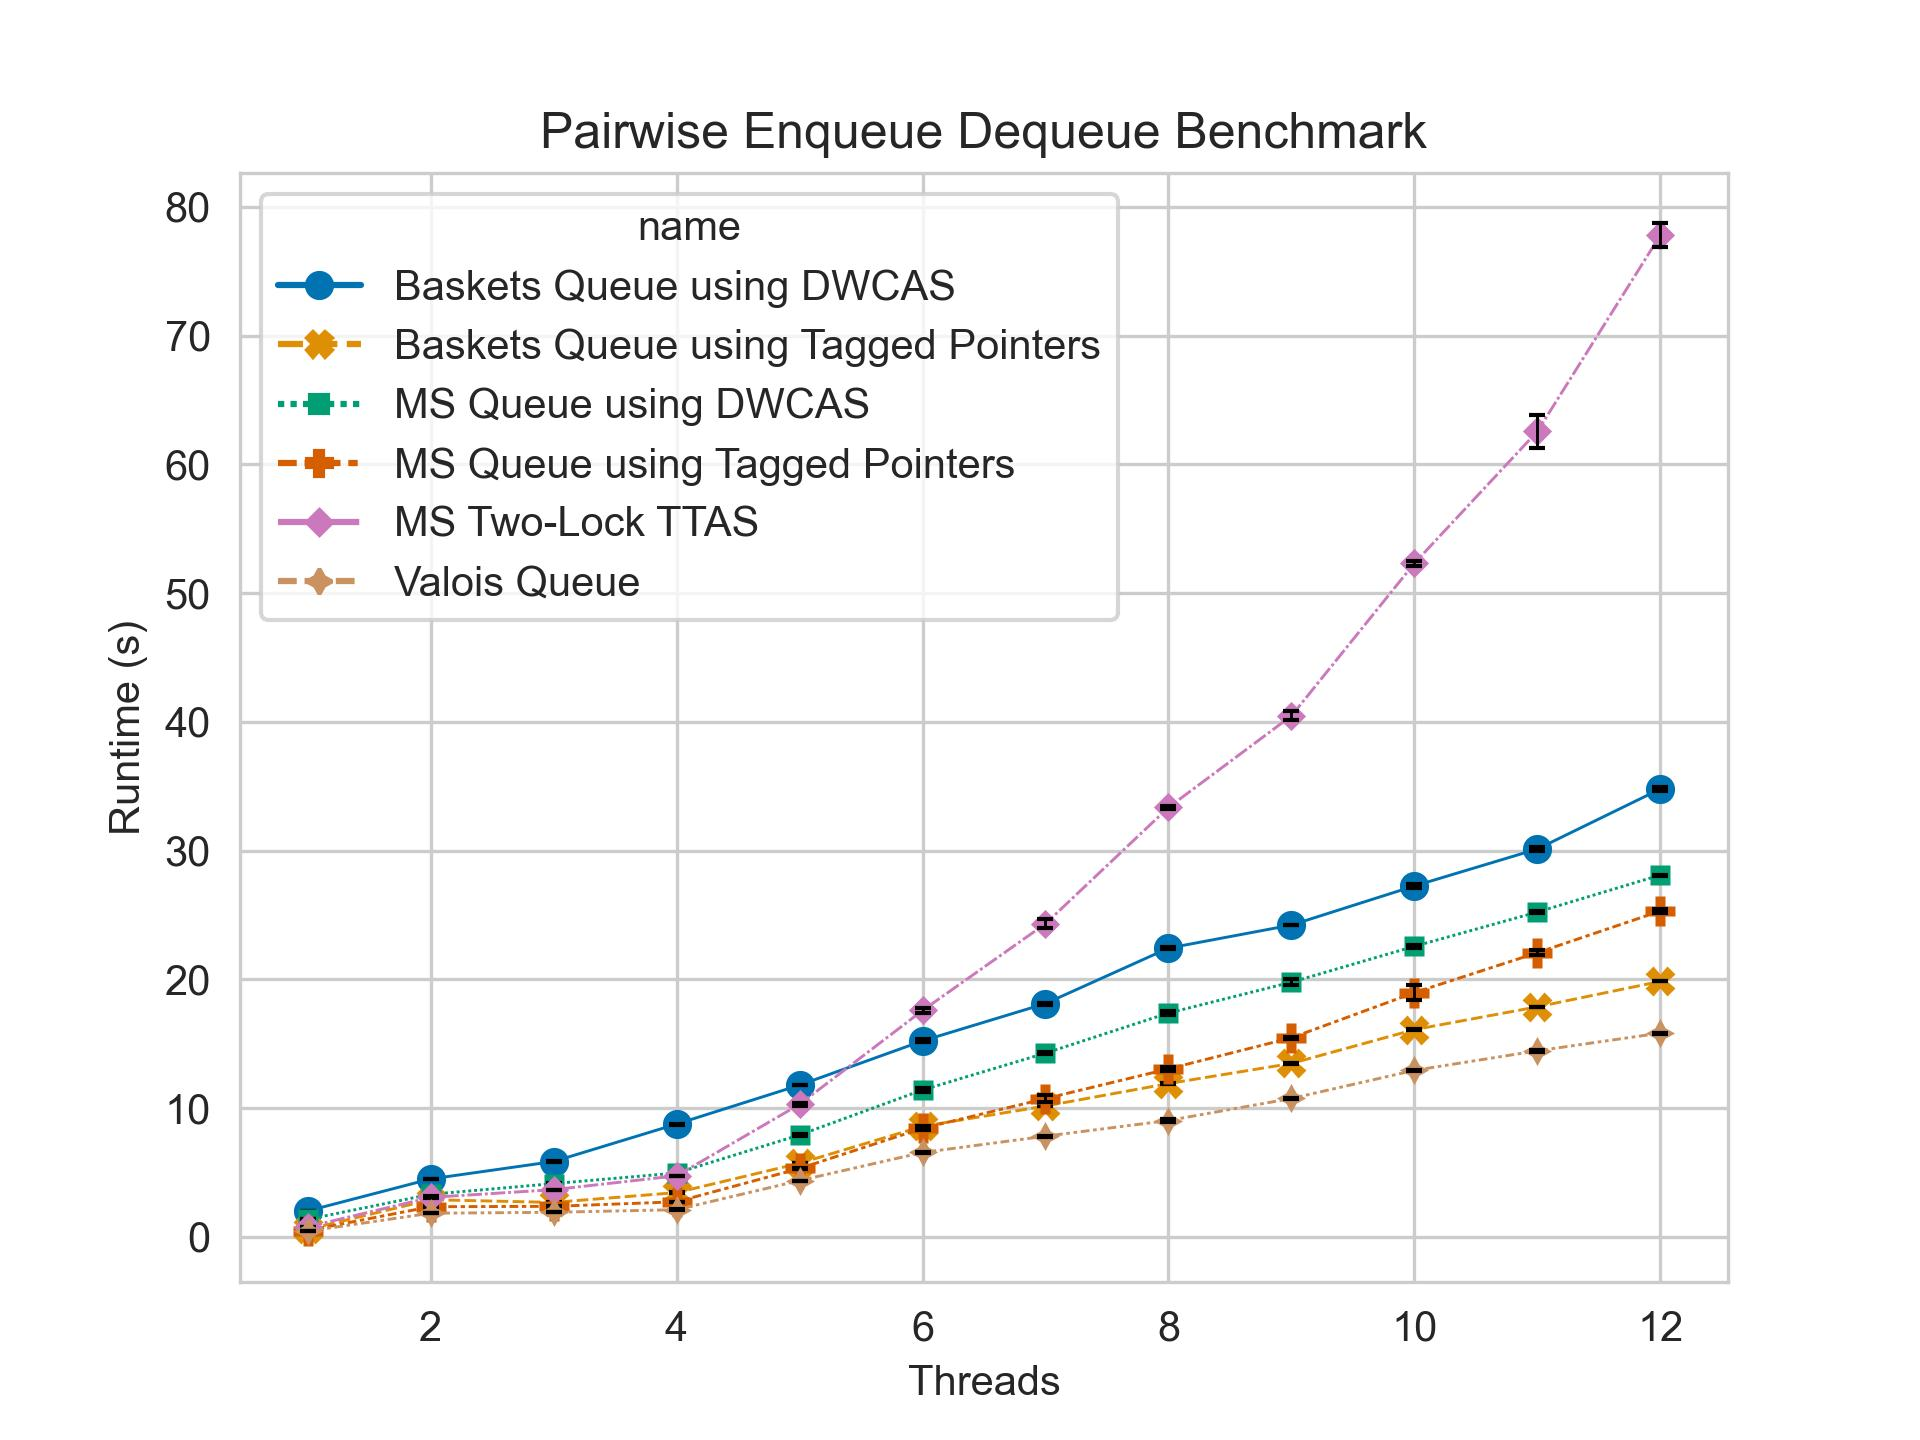
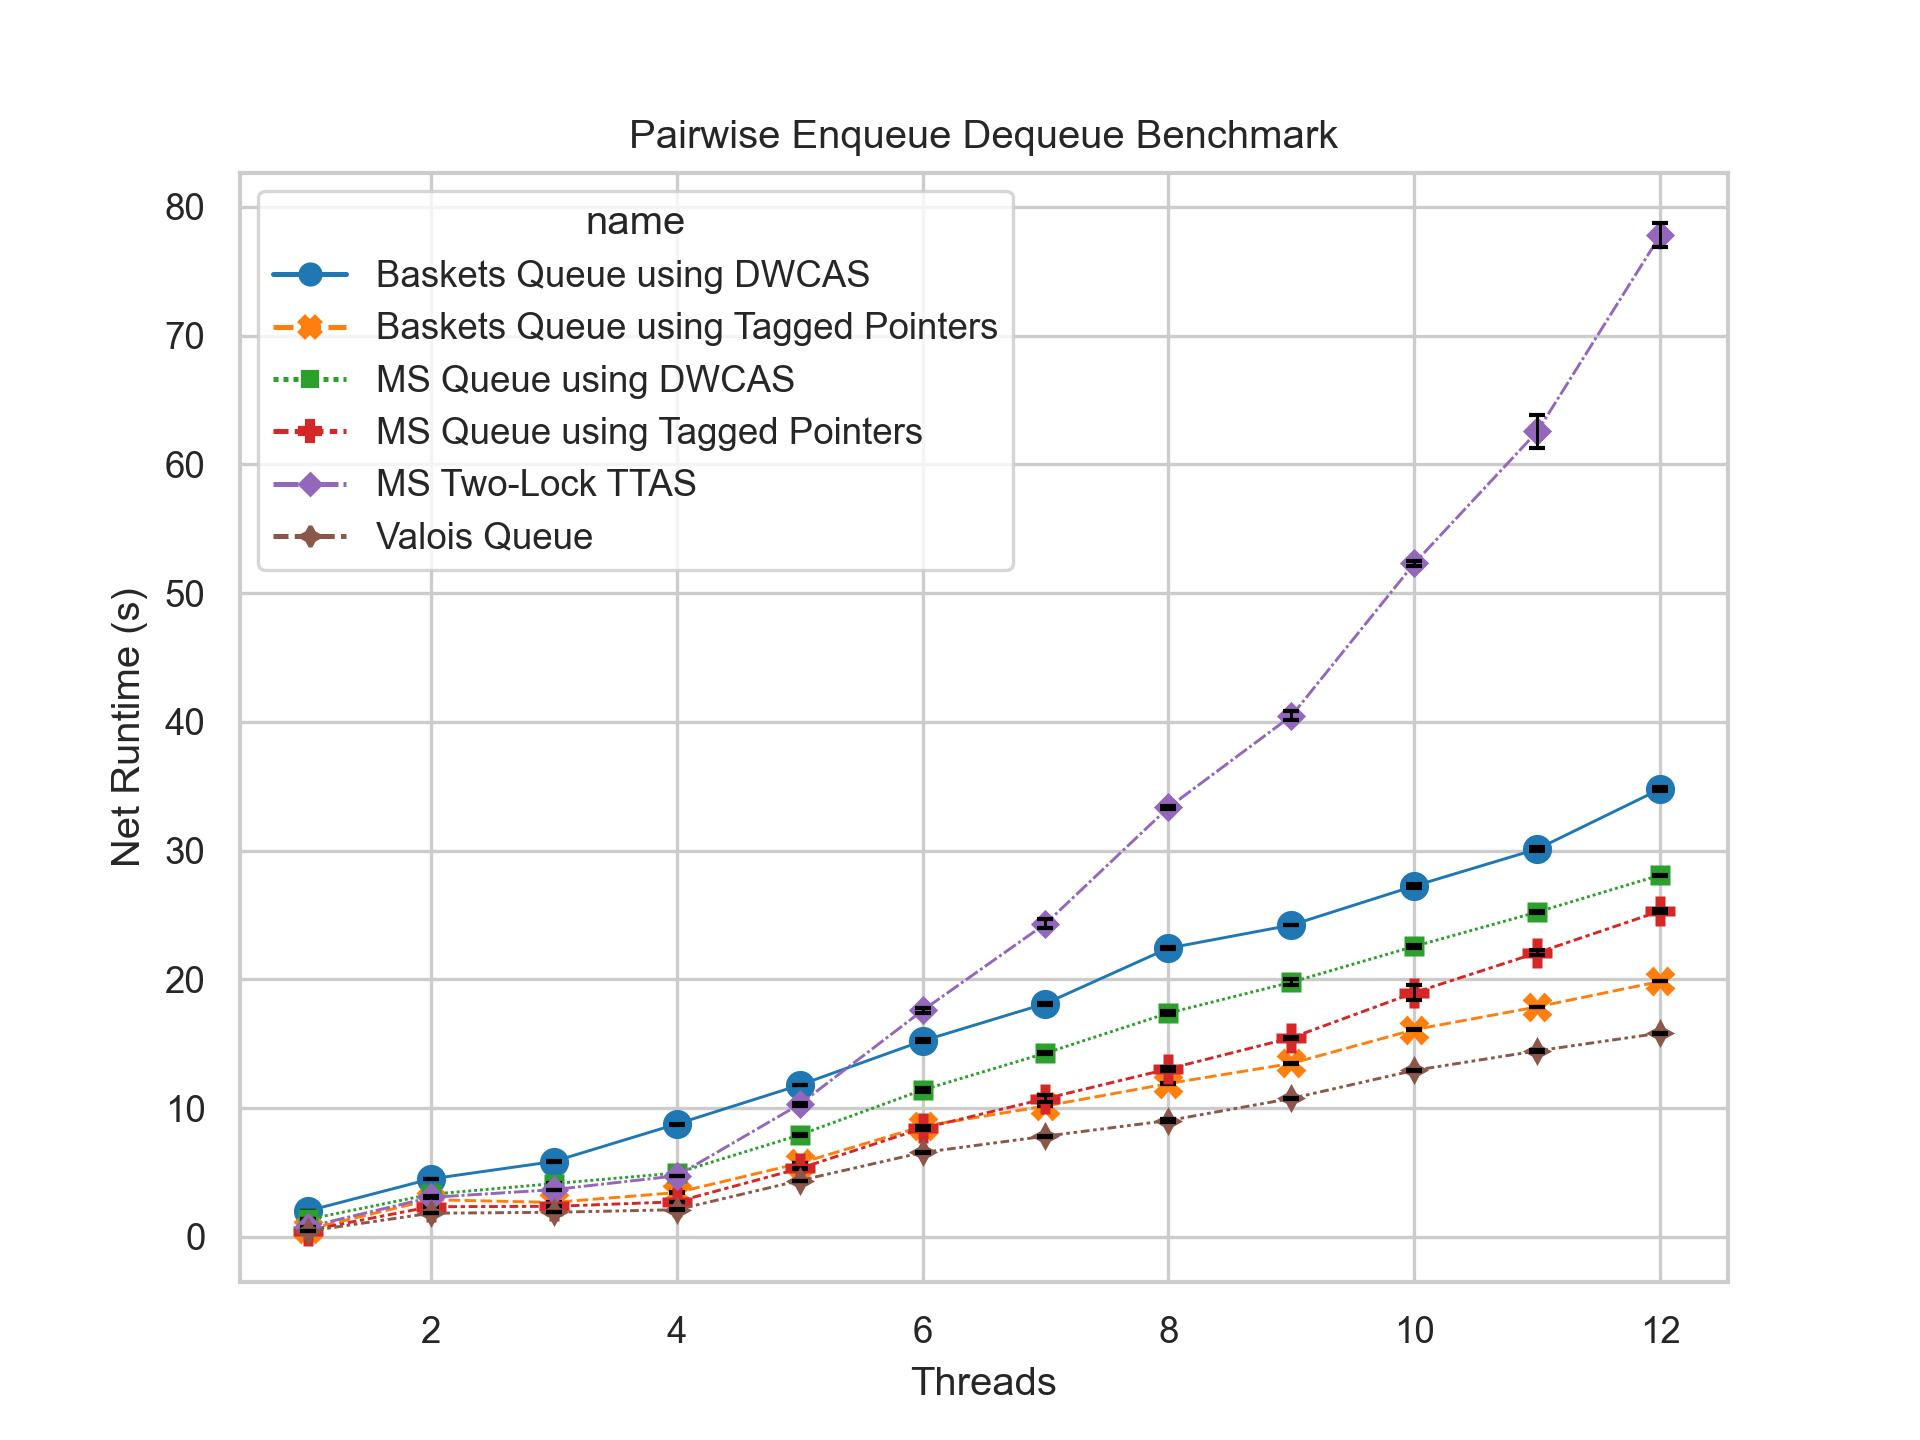
Refactor plot.py to generate more consistent looking graphs
* Graphs were made more consistent looking by using the same colour palette; for some reason, this wasn't the case.

diff --git a/src/utils/plot.py b/src/utils/plot.py
@@ -20,46 +20,46 @@ sns_kwargs = {
     "err_style": "bars",
     "linewidth": linewidth,
     "markersize": markersize,
-    "err_kws": {"linewidth" : linewidth, "capsize" : 2, "ecolor" : "k"}
+    "err_kws": {"linewidth" : linewidth, "capsize" : 2, "ecolor" : "k"},
 }
 
+labels_kwargs = {"xlabel": "Threads", "ylabel": "Net Runtime (s)"}
 
+sns.set_style("whitegrid")
+sns.set_context("paper")
 
-def plot_cleanup():
-    # Disable matplotlib's colour cycling after each plot
-    # ensuring idempotent results
-    #plt.gca().set_prop_cycle(None)
-    plt.close()
+def save_plot(ax: plt.Axes, output_file_name:str, plot_title:str, dpi:int):
+    ax.set(
+        title = plot_title,
+        **labels_kwargs
+    )
+    ax.get_figure().savefig(output_file_name, dpi = dpi)
+    ax.get_figure().clf()
+    
+
 
 def plot_grouped_results(delay:int, input_file_name:str, output_file_name:str, plot_title:str, dpi:int = 300):
     df = pd.read_csv(f"{input_file_name}.csv")
     individual_delay_df = df.query(f"delay == {str(delay)}").sort_values(by="name")
+    palette = sns.color_palette(n_colors=len(df["name"].unique()))
 
-    sns.set_style("whitegrid")
-    sns.set_palette("colorblind")
-
-    ax1 = sns.lineplot(
+    ax = sns.lineplot(
         data = individual_delay_df,
         x = "threads",
         y = "net_runtime_s",
         style = "name",
         hue = "name",
+        palette = palette,
         **sns_kwargs
     )
 
-    ax1.set_xlabel("Threads")
-    ax1.set_ylabel("Runtime (s)")
-    ax1.set_title(plot_title)
-
-    plt.savefig(f"{images_path}/{output_file_name}.jpg", dpi = dpi)
-    plot_cleanup()
+    save_plot(ax, f"{images_path}/{output_file_name}.jpg", plot_title, dpi)
 
 def plot_individual_results(input_file_name:str, output_file_name:str, plot_title:str, dpi:int = 300):
     df = pd.read_csv(f"{input_file_name}.csv", index_col="name")
     queue_names = df.index.unique().sort_values()
+    palette = sns.color_palette(n_colors=len(df["delay"].unique()))
 
-    sns.set_style("whitegrid")
-    sns.set_palette("colorblind")
 
     for queue_name in queue_names:
         individual_df = df.loc[queue_name, ["net_runtime_s", "threads", "delay"]]
@@ -71,31 +71,24 @@ def plot_individual_results(input_file_name:str, output_file_name:str, plot_titl
             y = "net_runtime_s",
             style = "delay",
             hue = "delay",
+            palette = palette,
             **sns_kwargs
         )
 
-        ax.set_xlabel("Threads")
-        ax.set_ylabel("Runtime (s)")
-        ax.set_title(f"{queue_name}: {plot_title}")
-
         cleaned_queue_name = str.lower(queue_name).replace(" ", "_")
 
-        plt.savefig(
-            f"{images_path}/{output_file_name}_{cleaned_queue_name}.jpg",
-            dpi = dpi
-        )
-
-        plot_cleanup()
+        file_path = f"{images_path}/{output_file_name}_{cleaned_queue_name}.jpg"
+        title = f"{queue_name}: {plot_title}"
+        save_plot(ax, file_path, title, dpi)
 
 enqueue_dequeue_title = "Pairwise Enqueue Dequeue Benchmark"
 enqueue_dequeue_file_name = "enqueue_dequeue_results"
 p_enqueue_dequeue_title = "50% Enqueue Benchmark"
 p_enqueue_dequeue_file_name = "p_enqueue_dequeue_results"
 
-
 plot_grouped_results(250, "enqueue_dequeue_results", "grouped_enqueue_dequeue", enqueue_dequeue_title)
 plot_grouped_results(250, "p_enqueue_dequeue_results", "p_grouped_enqueue_dequeue", p_enqueue_dequeue_title)
 
-plot_individual_results("enqueue_dequeue_results", "individual_enqueue_dequeue", enqueue_dequeue_title)
-plot_individual_results("p_enqueue_dequeue_results", "individual_p_enqueue_dequeue", p_enqueue_dequeue_title)
+plot_individual_results("enqueue_dequeue_results", "enqueue_dequeue", enqueue_dequeue_title)
+plot_individual_results("p_enqueue_dequeue_results", "p_enqueue_dequeue", p_enqueue_dequeue_title)
 
